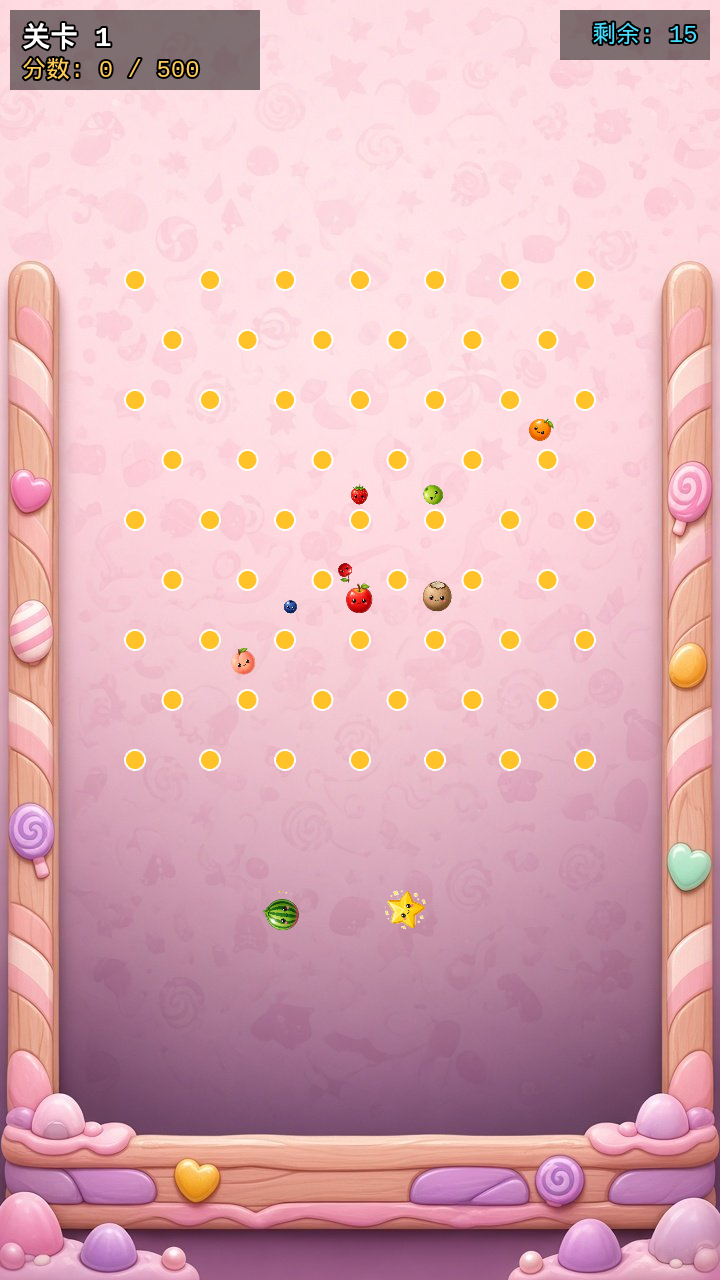
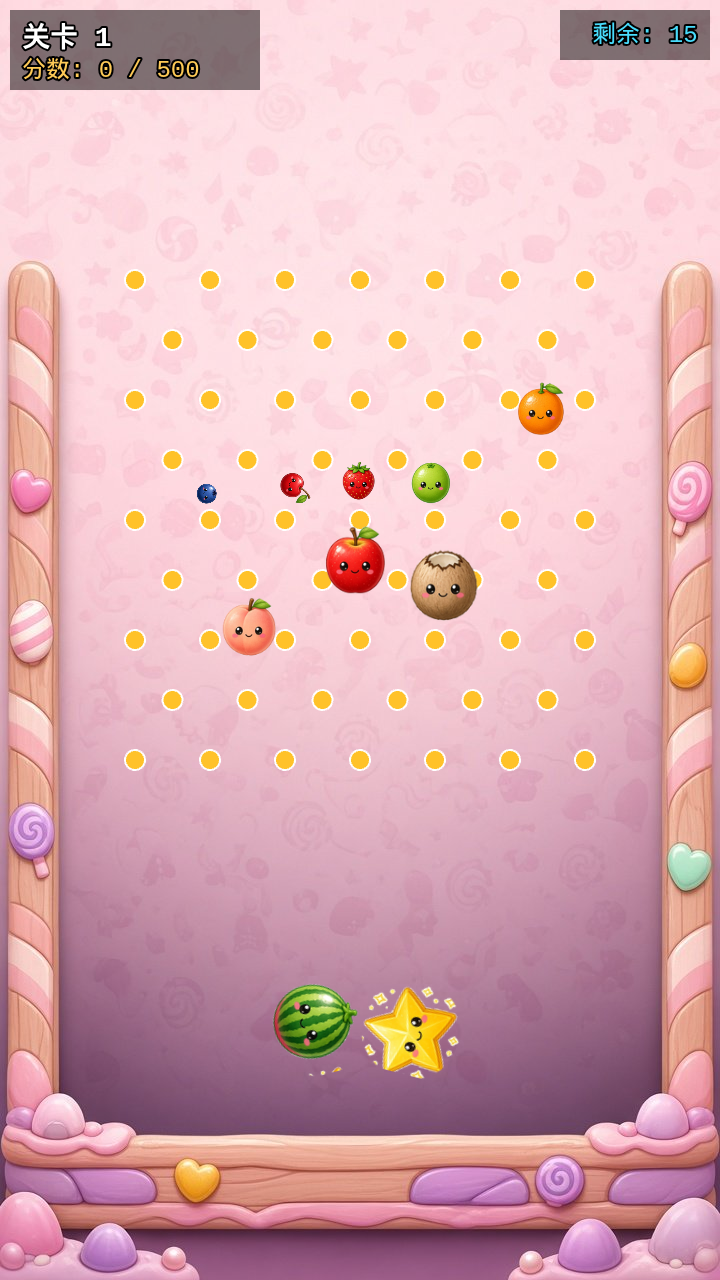
Fix ball sizes and floor position; clean up artifacts
- Scale ball radii dramatically: 18px (L1) to 72px (L10) for clear visual progression
- Adjust floor to y=1110 (measured from background.jpg candy bar top edge)
- Balls now visually rest on the top of the bottom candy bar
- Remove intermediate screenshots (keep only final debug-with-fruits.png)
- Add .vite/ to .gitignore
- Remove .vite/ cache directory from repo

diff --git a/scripts/measure-background.js b/scripts/measure-background.js
@@ -1,0 +1,54 @@
+import sharp from 'sharp';
+
+// Analyze the background image to find the top edge of the bottom candy bar
+const bgPath = '/workspace/assets/background.jpg';
+
+const { data, info } = await sharp(bgPath)
+  .ensureAlpha()
+  .raw()
+  .toBuffer({ resolveWithObject: true });
+
+const width = info.width;
+const height = info.height;
+const channels = info.channels;
+
+console.log(`Background: ${width}x${height}, ${channels} channels`);
+
+// Sample the center column to find where the candy bar starts
+// The candy bar is a distinct horizontal feature at the bottom
+const centerX = Math.floor(width / 2);
+
+// Scan from bottom upward to find significant color change
+// Bottom candy bar has warm peachy/wood tones
+let candyBarTop = height - 1;
+
+for (let y = height - 1; y > height * 0.6; y--) {
+  const idx = (y * width + centerX) * channels;
+  const r = data[idx];
+  const g = data[idx + 1];
+  const b = data[idx + 2];
+  
+  // Sample 10 pixels above current position
+  const idxAbove = ((y - 10) * width + centerX) * channels;
+  const rAbove = data[idxAbove];
+  const gAbove = data[idxAbove + 1];
+  const bAbove = data[idxAbove + 2];
+  
+  // Calculate color difference
+  const diff = Math.abs(r - rAbove) + Math.abs(g - gAbove) + Math.abs(b - bAbove);
+  
+  // If we see a significant change from warmer to cooler tones, that's likely the candy bar top
+  if (y % 50 === 0) {
+    console.log(`y=${y}: rgb(${r},${g},${b}) diff=${diff}`);
+  }
+  
+  // Look for the transition from playfield (pinkish gradient) to candy bar (peachy/wood)
+  if (diff > 40 && r > 180 && g > 140 && b > 120) {
+    candyBarTop = y;
+    console.log(`\n*** Found candy bar top at y=${candyBarTop} ***`);
+    console.log(`Color at candy bar: rgb(${r},${g},${b})`);
+    break;
+  }
+}
+
+console.log(`\nRecommended FLOOR_Y: ${candyBarTop - 20} (with 20px safety margin)`);

diff --git a/scripts/screenshot-debug.js b/scripts/screenshot-debug.js
@@ -21,9 +21,9 @@ import puppeteer from 'puppeteer';
     timeout: 30000
   });
   
-  console.log('Waiting for debug balls to spawn...');
-  // Wait for the delayed call (500ms) plus settling time
-  await new Promise(resolve => setTimeout(resolve, 3000));
+  console.log('Waiting for debug balls to spawn and settle...');
+  // Wait for the delayed call (500ms) plus longer settling time for physics
+  await new Promise(resolve => setTimeout(resolve, 5000));
   
   console.log('Taking screenshot...');
   await page.screenshot({ 

diff --git a/src/scenes/MainScene.ts b/src/scenes/MainScene.ts
@@ -24,8 +24,8 @@ export class MainScene extends Phaser.Scene {
   
   // Rail margins for physics walls alignment
   private readonly RAIL_MARGIN = 50;
-  // Floor position at top of bottom candy bar (prevent balls from falling through)
-  private readonly FLOOR_Y = 950;
+  // Floor position at top of bottom candy bar (visual measurement from background.jpg)
+  private readonly FLOOR_Y = 1110;
 
   constructor() {
     super({ key: 'MainScene' });
